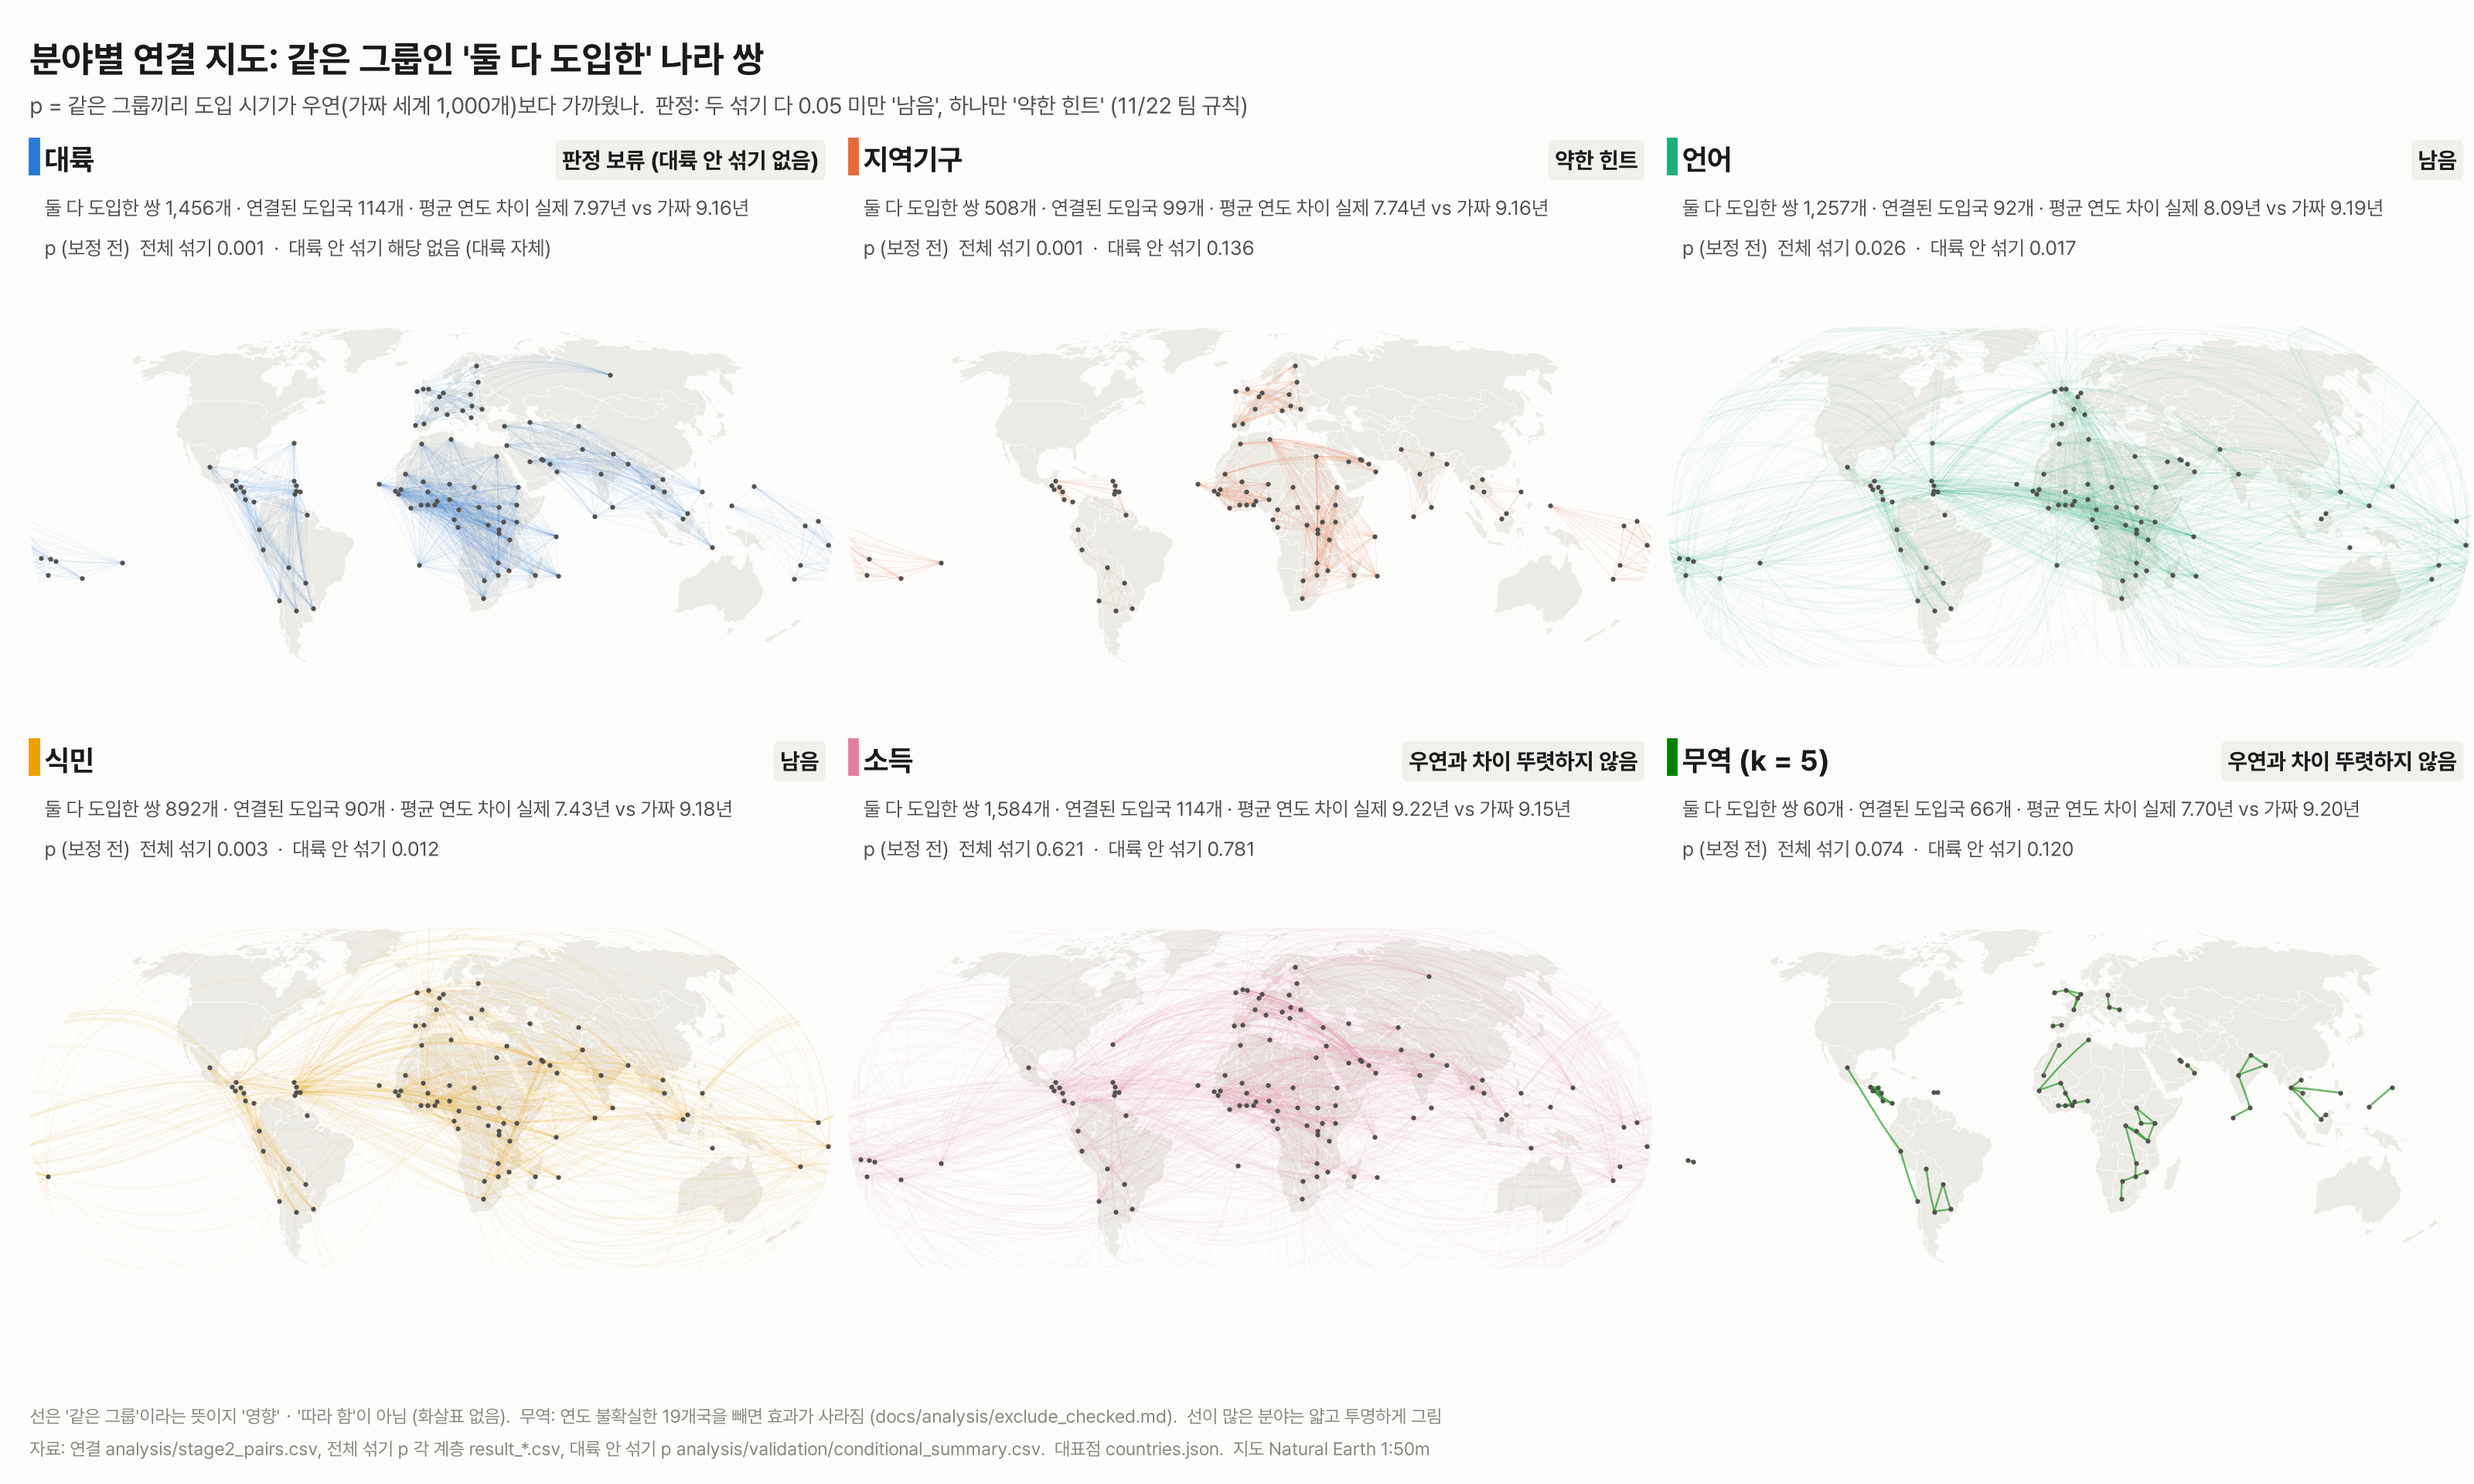
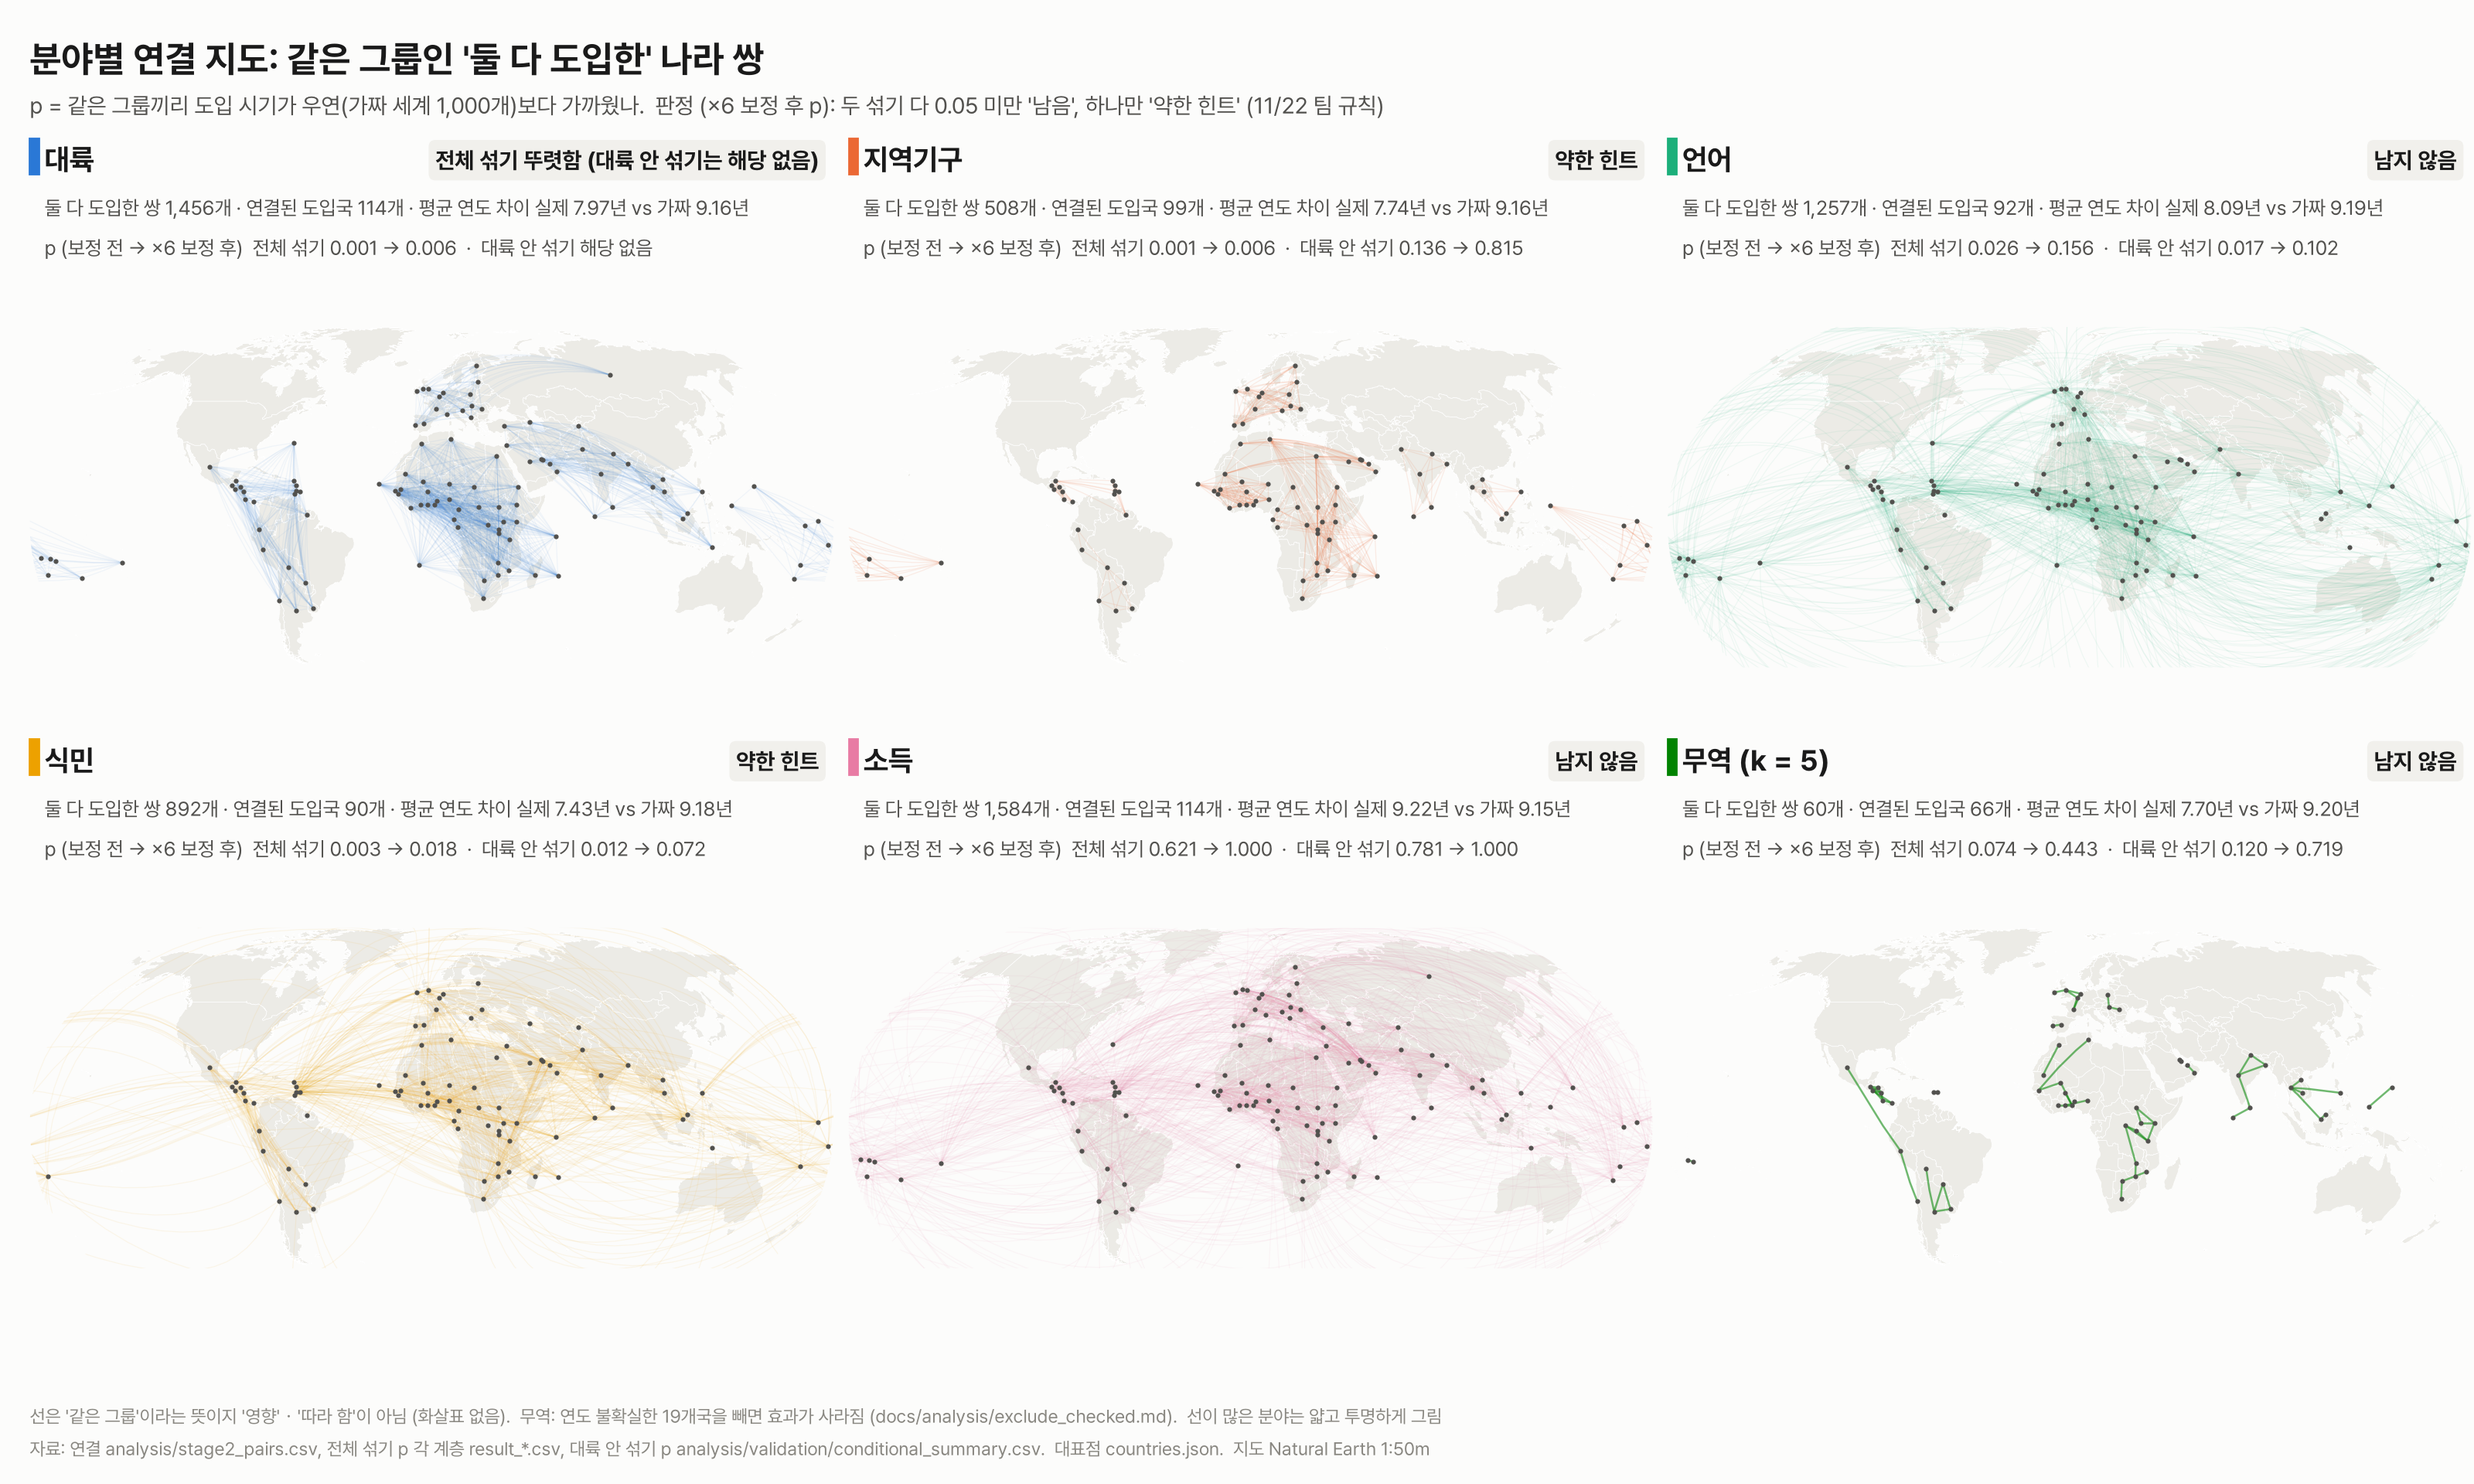
분야별 연결 지도: 판정을 ×6 보정 후 p로 (11/22 결정, 서영 확인)
- field_maps.py CORRECTION = 6. 칸마다 보정 전 → 보정 후 p 같이 적음
- 판정: 대륙 '전체 섞기 뚜렷함 (대륙 안 섞기는 해당 없음)', 지역기구・식민 약한 힌트, 언어・소득・무역 남지 않음
- trade.md: 표 판정 열 갱신, '팀 확인 중' 삭제, '먼 나라를 잇는 모양' 문장 삭제 (k = 5 엣지 169개 중 다른 대륙 15개, 둘 다 도입 60쌍 중 0개)
- ROLES 승아 칸 ✅

diff --git a/layers/trade/field_maps.py b/layers/trade/field_maps.py
@@ -10,8 +10,9 @@
 - 6개 분야 전부 그림 (11/24 팀 결정, 서영): 묶인 분야만 고르지 않고 칸마다 p와 판정을 적음
 - 칸마다 p 두 개를 나란히 (11/22 팀 결정): 전체 섞기 = 각 계층 result_*.csv ALL p,
   대륙 안 섞기 = analysis/validation/conditional_summary.csv (version all) p_continent. 대륙은 대륙 안 섞기가 정의상 안 됨
-- 판정 = 둘 다 0.05 미만 '남음', 하나만 '약한 힌트', 둘 다 아니면 '우연과 차이 뚜렷하지 않음'.
-  어떤 p로 판정하는지(보정 전 / ×6 보정 후)는 팀 확인 중 → CORRECTION 한 곳만 바꾸면 됨. 칸에 보정 전・후를 적음
+- 판정 = ×6 보정 후 p로 (11/22 팀 결정, key_message.md: 보정 전 p는 판정에 안 씀. 1단계도 2단계와 같은 6개 분야라 ×6).
+  둘 다 0.05 미만 '남음', 하나만 '약한 힌트', 둘 다 아니면 '남지 않음'. 칸에 보정 전 → 보정 후 p를 같이 적음
+- 대륙은 대륙 안 섞기가 없어서 두 섞기 비교가 안 됨 → 전체 섞기만으로 '뚜렷함'(< 0.01)・'약함'(0.01~0.05)・'차이 없음' (11/24 서영)
 - 화살표 없음. 선은 '같은 그룹'이지 '영향'이 아님
 - 지도는 서영 layers/region/adoption_maps.py와 같게: Robinson, Natural Earth 1:50m, 대표점 countries.json latlng
 - 분야 색은 layers/trade/example_figure.py와 같음 (대륙・지역기구・언어・식민・소득・무역 순서 고정)
@@ -41,8 +42,8 @@ from common import load_nodes, use_font  # noqa: E402
 L = ROOT / "layers"
 OUT = ROOT / "figures" / "stage3_분야별_연결지도.png"
 
-# 판정에 쓰는 p: None = 보정 전, 6 = 6개 분야 Bonferroni (p × 6, 최대 1). 팀 확인 중 (11/24)
-CORRECTION = None
+# 판정에 쓰는 p: 6개 분야 Bonferroni (p × 6, 최대 1). 11/22 팀 결정 (11/24 서영 확인)
+CORRECTION = 6
 
 FIELDS = ["continent", "igo", "language", "colony", "income", "trade"]     # stage2.py MAIN 순서
 FIELD_KO = dict(continent="대륙", igo="지역기구", language="언어", colony="식민", income="소득", trade="무역 (k = 5)")
@@ -60,14 +61,17 @@ def fmt(p):
     return "–" if p is None else f"{p:.3f}"
 
 
+def adj(p):
+    return None if p is None else min(1.0, p * CORRECTION)
+
+
 def judge(p_basic, p_cont):
-    ps = [p for p in (p_basic, p_cont) if p is not None]
-    if CORRECTION:
-        ps = [min(1.0, p * CORRECTION) for p in ps]
-    if p_cont is None:
-        return None                          # 대륙: 대륙 안 섞기 없음 → 판정 안 함 (팀 확인 중)
-    n = sum(p < 0.05 for p in ps)
-    return {2: "남음", 1: "약한 힌트", 0: "우연과 차이 뚜렷하지 않음"}[n]
+    if p_cont is None:                       # 대륙: 대륙 안 섞기 없음 → 전체 섞기만으로 (11/24 서영)
+        q = adj(p_basic)
+        word = "뚜렷함" if q < 0.01 else "약함" if q < 0.05 else "차이 없음"
+        return f"전체 섞기 {word} (대륙 안 섞기는 해당 없음)"
+    n = sum(adj(p) < 0.05 for p in (p_basic, p_cont))
+    return {2: "남음", 1: "약한 힌트", 0: "남지 않음"}[n]
 
 
 # ---------- 데이터 ----------
@@ -104,7 +108,6 @@ PC, ROB = ccrs.PlateCarree(), ccrs.Robinson()
 Y_LO = ROB.transform_point(0, -57, PC)[1]
 Y_HI = ROB.transform_point(0, 84, PC)[1]
 fig = plt.figure(figsize=(16, 9.6), facecolor=SURF)
-corr = "보정 전" if not CORRECTION else f"×{CORRECTION} 보정 후"
 
 W, H = 0.325, 0.28
 for k, f in enumerate(FIELDS):
@@ -131,20 +134,21 @@ for k, f in enumerate(FIELDS):
     fig.patches.append(matplotlib.patches.Rectangle((x0, y0 + H + 0.078), 0.0035, 0.024,
                                                     transform=fig.transFigure, color=FIELD_COL[f]))   # 색 = 분야
     fig.text(tx, y0 + H + 0.076, FIELD_KO[f], fontsize=13.5, fontweight="bold", color=INK, va="bottom")
-    jt = d["judge"] or "판정 보류 (대륙 안 섞기 없음)"
+    jt = d["judge"]
     fig.text(x0 + W - 0.006, y0 + H + 0.078, jt, fontsize=10.5, fontweight="bold", color=INK, ha="right",
              va="bottom", bbox=dict(boxstyle="round,pad=0.3", fc="#f1f0ec", ec="none"))
     fig.text(tx, y0 + H + 0.047,
              f"둘 다 도입한 쌍 {d['n']:,}개 · 연결된 도입국 {len(ends)}개 · 평균 연도 차이 실제 {d['real']:.2f}년 vs 가짜 {d['fake']:.2f}년",
              fontsize=9.3, color=INK2, va="bottom")
-    pc = "대륙 안 섞기 해당 없음 (대륙 자체)" if d["p_cont"] is None else f"대륙 안 섞기 {fmt(d['p_cont'])}"
-    fig.text(tx, y0 + H + 0.020, f"p ({corr})  전체 섞기 {fmt(d['p_basic'])}  ·  {pc}", fontsize=9.3, color=INK2,
-             va="bottom")
+    pc = ("대륙 안 섞기 해당 없음" if d["p_cont"] is None
+          else f"대륙 안 섞기 {fmt(d['p_cont'])} → {fmt(adj(d['p_cont']))}")
+    fig.text(tx, y0 + H + 0.020, f"p (보정 전 → ×{CORRECTION} 보정 후)  전체 섞기 {fmt(d['p_basic'])} → {fmt(adj(d['p_basic']))}  ·  {pc}",
+             fontsize=9.3, color=INK2, va="bottom")
 
 fig.text(0.012, 0.975, "분야별 연결 지도: 같은 그룹인 '둘 다 도입한' 나라 쌍", fontsize=17, fontweight="bold",
          color=INK, va="top")
 fig.text(0.012, 0.938, "p = 같은 그룹끼리 도입 시기가 우연(가짜 세계 1,000개)보다 가까웠나.  "
-         "판정: 두 섞기 다 0.05 미만 '남음', 하나만 '약한 힌트' (11/22 팀 규칙)",
+         f"판정 (×{CORRECTION} 보정 후 p): 두 섞기 다 0.05 미만 '남음', 하나만 '약한 힌트' (11/22 팀 규칙)",
          fontsize=10.5, color=INK2, va="top")
 fig.text(0.012, 0.012,
          "선은 '같은 그룹'이라는 뜻이지 '영향'・'따라 함'이 아님 (화살표 없음).  무역: 연도 불확실한 19개국을 빼면 효과가 사라짐 "

diff --git a/docs/layers/trade.md b/docs/layers/trade.md
@@ -161,21 +161,23 @@
 
 2단계 6개 분야마다 작은 지도 한 장 (2 × 3). 선 = 같은 그룹인 '둘 다 도입한' 나라 쌍 (1단계가 비교하는 쌍과 같음), 화살표 없음
 
-| 분야 | 둘 다 도입한 쌍 | 실제 vs 가짜 (년) | 전체 섞기 p | 대륙 안 섞기 p | 판정 (보정 전 p 기준, 팀 확인 중) |
+| 분야 | 둘 다 도입한 쌍 | 실제 vs 가짜 (년) | 전체 섞기 p (보정 전 → ×6) | 대륙 안 섞기 p (보정 전 → ×6) | 판정 (×6 보정 후) |
 |---|---|---|---|---|---|
-| 대륙 | 1,456 | 7.97 vs 9.16 | 0.001 | 해당 없음 | 보류 (대륙 안 섞기 없음) |
-| 지역기구 | 508 | 7.74 vs 9.16 | 0.001 | 0.136 | 약한 힌트 |
-| 언어 | 1,257 | 8.09 vs 9.19 | 0.026 | 0.017 | 남음 |
-| 식민 | 892 | 7.43 vs 9.18 | 0.003 | 0.012 | 남음 |
-| 소득 | 1,584 | 9.22 vs 9.15 | 0.621 | 0.781 | 우연과 차이 뚜렷하지 않음 |
-| 무역 (k = 5) | 60 | 7.70 vs 9.20 | 0.074 | 0.120 | 우연과 차이 뚜렷하지 않음 |
+| 대륙 | 1,456 | 7.97 vs 9.16 | 0.001 → 0.006 | 해당 없음 | 전체 섞기 뚜렷함 (대륙 안 섞기는 해당 없음) |
+| 지역기구 | 508 | 7.74 vs 9.16 | 0.001 → 0.006 | 0.136 → 0.815 | 약한 힌트 |
+| 언어 | 1,257 | 8.09 vs 9.19 | 0.026 → 0.156 | 0.017 → 0.102 | 남지 않음 |
+| 식민 | 892 | 7.43 vs 9.18 | 0.003 → 0.018 | 0.012 → 0.072 | 약한 힌트 |
+| 소득 | 1,584 | 9.22 vs 9.15 | 0.621 → 1.000 | 0.781 → 1.000 | 남지 않음 |
+| 무역 (k = 5) | 60 | 7.70 vs 9.20 | 0.074 → 0.443 | 0.120 → 0.719 | 남지 않음 |
 
 - 정한 것 (11/24, 서영 답): 6개 분야 전부 그림 (묶인 분야만 고르지 않음), 무역은 k = 5 그대로 (결과 보고 k = 10으로 안 바꿈), p 두 개 나란히, 둘 다 도입한 쌍만, 지도는 서영 `adoption_maps.py`와 같은 cartopy Robinson
+- 판정은 11/22 팀 결정대로 **×6 보정 후 p** (`key_message.md`: 보정 전 p는 판정에 안 씀. 1단계도 2단계와 같은 6개 분야라 ×6). 둘 다 0.05 미만 '남음', 하나만 '약한 힌트', 둘 다 아니면 '남지 않음'. 그림에는 보정 전 → 보정 후 p를 같이 적음
+- 대륙은 대륙 안 섞기가 없어서 두 섞기 비교가 안 됨 → 전체 섞기 보정 후 p만으로 '뚜렷함'(< 0.01)・'약함'(0.01~0.05) (11/24 서영)
 - 숫자 출처: 선 `analysis/stage2_pairs.csv` (`both_adopters` = 1), 전체 섞기 p・연도 차이 각 계층 `result_*.csv` ALL 줄, 대륙 안 섞기 p `analysis/validation/conditional_summary.csv` (`all`)
 - 스크립트 안에서 확인: 분야별 선 수 = `result_*.csv` n_pairs, 두 CSV의 전체 섞기 p가 같음 (다르면 멈춤)
-- 무역: 먼 나라를 잇는 모양만 보여 줌. 유의하다고 하지 않음. 연도 불확실한 19개국을 빼면 효과가 사라짐 (`docs/analysis/exclude_checked.md`)
+- 무역 k = 5 엣지 169개 중 다른 대륙을 잇는 건 15개 (약 9%). 그림에 그린 둘 다 도입한 60쌍 중에는 0개 → 무역 선도 대부분 같은 대륙 안
+- 무역은 연도 불확실한 19개국을 빼면 효과가 사라짐 (`docs/analysis/exclude_checked.md`)
 - 선이 많은 분야(소득・대륙・언어)는 얇고 투명하게. 색은 예시 그림과 같은 분야 색
-- **팀 확인 중**: ① 판정을 보정 전 p로 할지 6개 분야 ×6 보정 후로 할지 (보정 후면 언어 남지 않음, 식민 약한 힌트) ② 대륙 칸 판정을 어떻게 쓸지. 정해지면 `field_maps.py`의 `CORRECTION`과 대륙 문구만 바꿈
 
 ## 누락 국가
 
